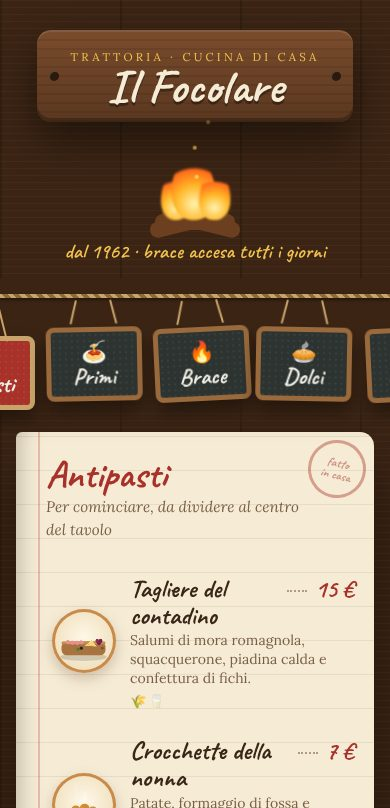
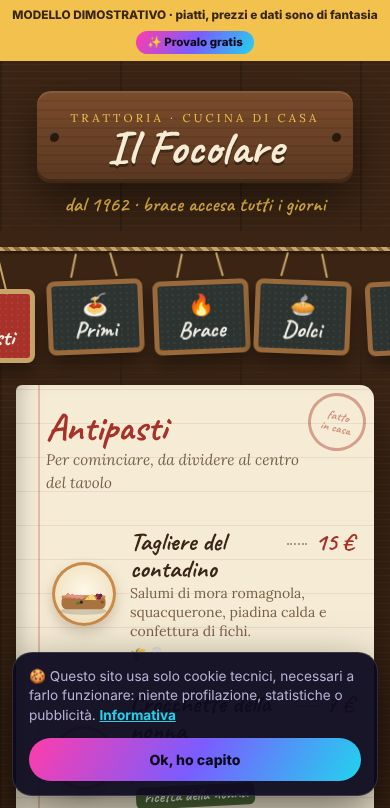
Il Focolare senza fuoco animato (demo e anteprima); attiva allineata a dsmenu per Bella Napoli e Vesuvio
Claude-Session: https://claude.ai/code/session_01UEkUfdT5UxTJz6ejPa121q

diff --git a/attiva.html b/attiva.html
@@ -814,7 +814,9 @@
               var BRAND_LOOK = {
                 'mdc-001': { at: 'header.hero', rgb: '250,246,238', a: 0.62, tx: 'lt', logo: false },
                 'mdc-002': { at: 'header.top', rgb: '20,14,12', a: 0.42, tx: 'dk', logo: 'span.badge',
-                  css: '.top.dsm-cov{background:#1c1411;border-radius:0 0 30px 30px}.top.dsm-cov::before,.top.dsm-cov .pizza{display:none}'
+                  // con la copertina: niente rosso, foto scurita che in basso sfuma nel colore della pagina
+                  css: '.top.dsm-cov{background:var(--cream);padding-bottom:150px}.top.dsm-cov::before,.top.dsm-cov .pizza{display:none}'
+                    + '.top.dsm-cov>.dsm-cov-bg{-webkit-mask-image:linear-gradient(180deg,#000 0,#000 50%,rgba(0,0,0,.55) 68%,rgba(0,0,0,.15) 80%,transparent 88%);mask-image:linear-gradient(180deg,#000 0,#000 50%,rgba(0,0,0,.55) 68%,rgba(0,0,0,.15) 80%,transparent 88%)}'
                     + '.top.dsm-cov h1{text-shadow:0 3px 22px rgba(0,0,0,.55)}.top.dsm-cov .dsm-hlogo{margin-top:16px}' },
                 'mdc-003': { at: 'header.top', rgb: '255,250,242', a: 0.62, tx: 'lt', logo: false },
                 'mdc-004': { at: 'header.top', rgb: '18,18,20', a: 0.5, tx: 'dk', logo: 'div.brand',
@@ -835,8 +837,9 @@
                 'mdc-016': { at: 'header.hero', rgb: '52,62,22', a: 0.5, tx: 'dk', logo: false, top: true },
                 'mdc-017': { at: 'header.top', rgb: '40,22,12', a: 0.46, tx: 'dk', logo: 'div.plank' },
                 'mdc-018': { at: 'header.hero', rgb: '20,14,12', a: 0.42, tx: 'dk', logo: 'small',
-                  css: '.hero.dsm-cov{background:#1c1411;border-radius:0 0 30px 30px;padding-top:34px}.hero.dsm-cov .volcano{display:none}'
-                    + '.hero.dsm-cov .hero-in{grid-template-columns:1fr}.hero.dsm-cov h1{text-shadow:0 3px 22px rgba(0,0,0,.55)}.hero.dsm-cov p{padding-bottom:30px}' },
+                  css: '.hero.dsm-cov{background:var(--cream);padding-top:34px}.hero.dsm-cov .volcano{display:none}.hero.dsm-cov .hero-in{grid-template-columns:1fr;padding-bottom:100px}.hero.dsm-cov .oven span{background:rgba(28,20,17,.82)}'
+                    + '.hero.dsm-cov>.dsm-cov-bg{-webkit-mask-image:linear-gradient(180deg,#000 0,#000 50%,rgba(0,0,0,.55) 68%,rgba(0,0,0,.15) 80%,transparent 88%);mask-image:linear-gradient(180deg,#000 0,#000 50%,rgba(0,0,0,.55) 68%,rgba(0,0,0,.15) 80%,transparent 88%)}'
+                    + '.hero.dsm-cov h1{text-shadow:0 3px 22px rgba(0,0,0,.55)}.hero.dsm-cov p{padding-bottom:22px}' },
                 'mdc-019': { at: 'header.hero', rgb: '250,243,228', a: 0.6, tx: 'lt', logo: 'small' },
                 'mdc-020': { at: 'header.hero', rgb: '253,238,242', a: 0.58, tx: 'lt', logo: 'small' },
                 'mdc-021': { at: 'header.wall', rgb: '16,10,8', a: 0.5, tx: 'dk', logo: 'div.neon' },

diff --git a/mdc-015.html b/mdc-015.html
@@ -109,7 +109,6 @@ footer strong{font-family:Caveat,cursive;font-size:2rem;color:#f2c14e}
 <div class="demo">MODELLO DIMOSTRATIVO · piatti, prezzi e dati sono di fantasia</div>
 <header class="top">
 <div class="plank"><small>Trattoria · cucina di casa</small><h1>Il Focolare</h1></div>
-<div class="fire" aria-hidden="true"><span class="log"></span><span class="log b"></span><span class="log c"></span><span class="flame f2"></span><span class="flame"></span><span class="flame f3"></span><span class="spark" style="--x:-20px"></span><span class="spark" style="--x:16px;animation-delay:.7s"></span><span class="spark" style="--x:-6px;animation-delay:1.4s"></span></div>
 <p class="since dsm-fake">dal 1962 · brace accesa tutti i giorni</p>
 </header>
 
